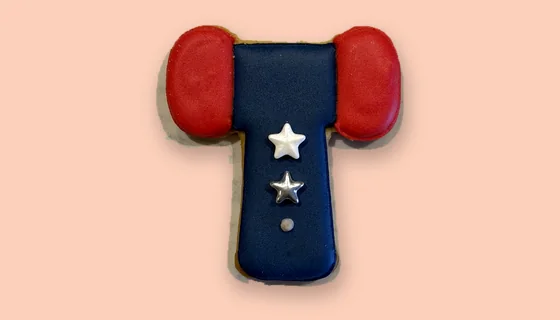
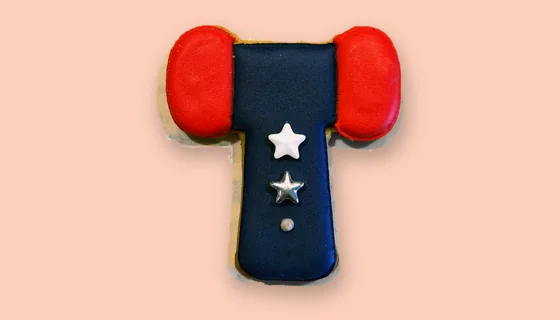
Loading spinner instead of a blank wait, 防詐騙提醒, regraded 抓週 photos
- a page that may come from the browser cache shows a small spinner (at most 1.2 s) until the version check passes,
  then opens; verified with an update simulation: the old copy is loaded but never shown
- 購物須知 gets a 防詐騙提醒 topic (owner can rewrite or hide it); the same line sits under the bank details on the order page
- the seven 抓週 cookies she had not retouched are colour-graded with the curve learnt from her own 17 retouched pairs
- tests: api 289, webhook 25, browser 79 checks

diff --git a/order.html b/order.html
@@ -2,8 +2,8 @@
 <html lang="zh-Hant-TW">
 <head>
 <meta charset="utf-8">
-<script>/* stale-page guard, part 1 (see js/app.js) */try{(function(d){var n=performance.getEntriesByType&&performance.getEntriesByType('navigation')[0];if(n&&n.transferSize>0)return;d.className+=' vchk';setTimeout(function(){d.classList.remove('vchk')},2500)})(document.documentElement)}catch(e){}</script>
-<style>.vchk body{visibility:hidden}</style>
+<script>/* stale-page guard, part 1 (see js/app.js) */try{(function(d){var n=performance.getEntriesByType&&performance.getEntriesByType('navigation')[0];if(n&&n.transferSize>0)return;d.className+=' vchk';setTimeout(function(){d.classList.remove('vchk')},1200)})(document.documentElement)}catch(e){}</script>
+<style>.vchk body{visibility:hidden}.vchk::before{content:"";position:fixed;left:50%;top:40%;width:36px;height:36px;margin:-18px 0 0 -18px;border-radius:50%;border:3px solid #ecd5c8;border-top-color:#b0604a;opacity:0;animation:vchk .8s linear infinite,vchkin .15s .12s forwards}@keyframes vchk{to{transform:rotate(360deg)}}@keyframes vchkin{to{opacity:1}}</style>
 <meta name="viewport" content="width=device-width, initial-scale=1, viewport-fit=cover">
 <title>訂單｜N.T Cookie × N.T Canelé</title>
 <meta name="theme-color" content="#f8ede7">
@@ -51,6 +51,7 @@
         <dl class="kv"><dt>銀行</dt><dd>${esc(b.name)}${b.code ? `（${esc(b.code)}）` : ''}</dd>
         <dt>帳號</dt><dd>${esc(b.account)} ${copyBtn(b.account)}</dd>${b.holder ? `<dt>戶名</dt><dd>${esc(b.holder)}</dd>` : ''}
         <dt>金額</dt><dd>${money(o.total)} ${copyBtn(o.total)}</dd></dl>
+        ${(() => { const f = NTC.shopNotes(cat.settings).find((r) => r.key === 'fraud'); return f && !f.hidden && f.text ? `<p class="note" id="fraud-note" style="margin:10px 0 0;padding:9px 11px;border-radius:10px;background:#fff6ec">⚠ <b>${esc(f.title)}</b>　${esc(f.text).replace(/\n/g, '<br>')}</p>` : ''; })()}
         ${p.last5 ? `<div style="margin:12px 0 0;padding:10px 12px;border-radius:12px;background:#eef4fb"><b>✓ 已回報匯款</b>（末五碼 ${esc(p.last5)}）<br><span class="note">店家確認收到後，這裡會變成「已付款」。想讓店家更快看到，可以按下面的按鈕用 LINE 通知。</span>
           <a class="btn line block small" style="margin-top:10px" href="${NTC.chatUrl(`您好，我已經匯款了\n訂單：${o.orderNo}\n金額：${money(o.total)}\n帳號末五碼：${p.last5}`)}">用 LINE 通知店家我已匯款</a></div>` : ''}
         <div class="row" style="margin-top:12px"><input id="last5" inputmode="numeric" maxlength="5" placeholder="帳號末五碼" style="flex:1;border:1.5px solid #e6d2c6;border-radius:12px;padding:12px;font-size:16px" value="${esc(p.last5 || '')}">

diff --git a/admin.html b/admin.html
@@ -2,8 +2,8 @@
 <html lang="zh-Hant-TW">
 <head>
 <meta charset="utf-8">
-<script>/* stale-page guard, part 1 (see js/app.js) */try{(function(d){var n=performance.getEntriesByType&&performance.getEntriesByType('navigation')[0];if(n&&n.transferSize>0)return;d.className+=' vchk';setTimeout(function(){d.classList.remove('vchk')},2500)})(document.documentElement)}catch(e){}</script>
-<style>.vchk body{visibility:hidden}</style>
+<script>/* stale-page guard, part 1 (see js/app.js) */try{(function(d){var n=performance.getEntriesByType&&performance.getEntriesByType('navigation')[0];if(n&&n.transferSize>0)return;d.className+=' vchk';setTimeout(function(){d.classList.remove('vchk')},1200)})(document.documentElement)}catch(e){}</script>
+<style>.vchk body{visibility:hidden}.vchk::before{content:"";position:fixed;left:50%;top:40%;width:36px;height:36px;margin:-18px 0 0 -18px;border-radius:50%;border:3px solid #ecd5c8;border-top-color:#b0604a;opacity:0;animation:vchk .8s linear infinite,vchkin .15s .12s forwards}@keyframes vchk{to{transform:rotate(360deg)}}@keyframes vchkin{to{opacity:1}}</style>
 <meta name="viewport" content="width=device-width, initial-scale=1, viewport-fit=cover">
 <title>店家後台｜N.T Cookie × N.T Canelé</title>
 <meta name="robots" content="noindex, nofollow">
@@ -108,7 +108,7 @@
   let canDeleteReal = false; // only the fixed top admin may delete customer orders
   let tab = 'orders'; let statuses = {}; let orders = []; let filter = 'open'; let sortBy = 'created';
   let products = []; let settings = null; let ready = {}; let inqs = null; let inqStatuses = {}; let inqFilter = 'open'; let inqP = null; let dirty = false; let prodCat = 'canele'; const openAcc = new Set();
-  const NOTE_TOPICS = [['date', '到貨日'], ['cookie', '造型餅乾'], ['canele', '可麗露'], ['meringue', '馬林糖一口酥'], ['pay', '付款'], ['custom', '客製造型']]; // 購物須知：自動寫好的六則（同 js/app.js NTC.shopNotes）
+  const NOTE_TOPICS = [['date', '到貨日'], ['cookie', '造型餅乾'], ['canele', '可麗露'], ['meringue', '馬林糖一口酥'], ['pay', '付款'], ['custom', '客製造型'], ['fraud', '防詐騙提醒']]; // 購物須知：自動寫好的六則（同 js/app.js NTC.shopNotes）
 
   // ---------- who are you?  The LINE account decides: admins go straight in, everyone else is stopped here.
   NTC.preferAdmin = true;

diff --git a/meringue.html b/meringue.html
@@ -2,8 +2,8 @@
 <html lang="zh-Hant-TW">
 <head>
 <meta charset="utf-8">
-<script>/* stale-page guard, part 1 (see js/app.js) */try{(function(d){var n=performance.getEntriesByType&&performance.getEntriesByType('navigation')[0];if(n&&n.transferSize>0)return;d.className+=' vchk';setTimeout(function(){d.classList.remove('vchk')},2500)})(document.documentElement)}catch(e){}</script>
-<style>.vchk body{visibility:hidden}</style>
+<script>/* stale-page guard, part 1 (see js/app.js) */try{(function(d){var n=performance.getEntriesByType&&performance.getEntriesByType('navigation')[0];if(n&&n.transferSize>0)return;d.className+=' vchk';setTimeout(function(){d.classList.remove('vchk')},1200)})(document.documentElement)}catch(e){}</script>
+<style>.vchk body{visibility:hidden}.vchk::before{content:"";position:fixed;left:50%;top:40%;width:36px;height:36px;margin:-18px 0 0 -18px;border-radius:50%;border:3px solid #ecd5c8;border-top-color:#b0604a;opacity:0;animation:vchk .8s linear infinite,vchkin .15s .12s forwards}@keyframes vchk{to{transform:rotate(360deg)}}@keyframes vchkin{to{opacity:1}}</style>
 <meta name="viewport" content="width=device-width, initial-scale=1, viewport-fit=cover">
 <title>馬林糖一口酥｜N.T Cookie × N.T Canelé</title>
 <meta name="description" content="馬林糖一口酥｜雙重酥脆・香濃不膩。每款馬林糖搭配專屬的香酥餅乾底。原味奶油、小山園抹茶、頂級可可、天然紫薯、香濃起司。">

diff --git a/index.html b/index.html
@@ -2,8 +2,8 @@
 <html lang="zh-Hant-TW">
 <head>
 <meta charset="utf-8">
-<script>/* stale-page guard, part 1 (see js/app.js) */try{(function(d){var n=performance.getEntriesByType&&performance.getEntriesByType('navigation')[0];if(n&&n.transferSize>0)return;d.className+=' vchk';setTimeout(function(){d.classList.remove('vchk')},2500)})(document.documentElement)}catch(e){}</script>
-<style>.vchk body{visibility:hidden}</style>
+<script>/* stale-page guard, part 1 (see js/app.js) */try{(function(d){var n=performance.getEntriesByType&&performance.getEntriesByType('navigation')[0];if(n&&n.transferSize>0)return;d.className+=' vchk';setTimeout(function(){d.classList.remove('vchk')},1200)})(document.documentElement)}catch(e){}</script>
+<style>.vchk body{visibility:hidden}.vchk::before{content:"";position:fixed;left:50%;top:40%;width:36px;height:36px;margin:-18px 0 0 -18px;border-radius:50%;border:3px solid #ecd5c8;border-top-color:#b0604a;opacity:0;animation:vchk .8s linear infinite,vchkin .15s .12s forwards}@keyframes vchk{to{transform:rotate(360deg)}}@keyframes vchkin{to{opacity:1}}</style>
 <meta name="viewport" content="width=device-width, initial-scale=1, viewport-fit=cover">
 <title>N.T Cookie × N.T Canelé｜客製糖霜餅乾・豪宅裡の可麗露</title>
 <meta name="description" content="N.T Cookie × N.T Canelé — 客製糖霜餅乾 × 豪宅裡の可麗露。造型訂製・節慶禮盒・活動甜點，線上預約訂購。">

diff --git a/custom.html b/custom.html
@@ -2,8 +2,8 @@
 <html lang="zh-Hant-TW">
 <head>
 <meta charset="utf-8">
-<script>/* stale-page guard, part 1 (see js/app.js) */try{(function(d){var n=performance.getEntriesByType&&performance.getEntriesByType('navigation')[0];if(n&&n.transferSize>0)return;d.className+=' vchk';setTimeout(function(){d.classList.remove('vchk')},2500)})(document.documentElement)}catch(e){}</script>
-<style>.vchk body{visibility:hidden}</style>
+<script>/* stale-page guard, part 1 (see js/app.js) */try{(function(d){var n=performance.getEntriesByType&&performance.getEntriesByType('navigation')[0];if(n&&n.transferSize>0)return;d.className+=' vchk';setTimeout(function(){d.classList.remove('vchk')},1200)})(document.documentElement)}catch(e){}</script>
+<style>.vchk body{visibility:hidden}.vchk::before{content:"";position:fixed;left:50%;top:40%;width:36px;height:36px;margin:-18px 0 0 -18px;border-radius:50%;border:3px solid #ecd5c8;border-top-color:#b0604a;opacity:0;animation:vchk .8s linear infinite,vchkin .15s .12s forwards}@keyframes vchk{to{transform:rotate(360deg)}}@keyframes vchkin{to{opacity:1}}</style>
 <meta name="viewport" content="width=device-width, initial-scale=1, viewport-fit=cover">
 <title>客製造型餅乾｜N.T Cookie × N.T Canelé</title>
 <meta name="description" content="收涎・慶生・抓週・婚禮小物造型餅乾客製：留言、上傳參考照片，我們在 LINE 跟您討論細節與報價。">

diff --git a/canele.html b/canele.html
@@ -2,8 +2,8 @@
 <html lang="zh-Hant-TW">
 <head>
 <meta charset="utf-8">
-<script>/* stale-page guard, part 1 (see js/app.js) */try{(function(d){var n=performance.getEntriesByType&&performance.getEntriesByType('navigation')[0];if(n&&n.transferSize>0)return;d.className+=' vchk';setTimeout(function(){d.classList.remove('vchk')},2500)})(document.documentElement)}catch(e){}</script>
-<style>.vchk body{visibility:hidden}</style>
+<script>/* stale-page guard, part 1 (see js/app.js) */try{(function(d){var n=performance.getEntriesByType&&performance.getEntriesByType('navigation')[0];if(n&&n.transferSize>0)return;d.className+=' vchk';setTimeout(function(){d.classList.remove('vchk')},1200)})(document.documentElement)}catch(e){}</script>
+<style>.vchk body{visibility:hidden}.vchk::before{content:"";position:fixed;left:50%;top:40%;width:36px;height:36px;margin:-18px 0 0 -18px;border-radius:50%;border:3px solid #ecd5c8;border-top-color:#b0604a;opacity:0;animation:vchk .8s linear infinite,vchkin .15s .12s forwards}@keyframes vchk{to{transform:rotate(360deg)}}@keyframes vchkin{to{opacity:1}}</style>
 <meta name="viewport" content="width=device-width, initial-scale=1, viewport-fit=cover">
 <title>N.T Canelé 可麗露專區｜豪宅裡の可麗露</title>
 <meta name="description" content="N.T Canelé 豪宅裡の可麗露・六入可麗露禮盒。單一口味禮盒 $750 起、綜合口味禮盒 $800。">

diff --git a/cookies.html b/cookies.html
@@ -2,8 +2,8 @@
 <html lang="zh-Hant-TW">
 <head>
 <meta charset="utf-8">
-<script>/* stale-page guard, part 1 (see js/app.js) */try{(function(d){var n=performance.getEntriesByType&&performance.getEntriesByType('navigation')[0];if(n&&n.transferSize>0)return;d.className+=' vchk';setTimeout(function(){d.classList.remove('vchk')},2500)})(document.documentElement)}catch(e){}</script>
-<style>.vchk body{visibility:hidden}</style>
+<script>/* stale-page guard, part 1 (see js/app.js) */try{(function(d){var n=performance.getEntriesByType&&performance.getEntriesByType('navigation')[0];if(n&&n.transferSize>0)return;d.className+=' vchk';setTimeout(function(){d.classList.remove('vchk')},1200)})(document.documentElement)}catch(e){}</script>
+<style>.vchk body{visibility:hidden}.vchk::before{content:"";position:fixed;left:50%;top:40%;width:36px;height:36px;margin:-18px 0 0 -18px;border-radius:50%;border:3px solid #ecd5c8;border-top-color:#b0604a;opacity:0;animation:vchk .8s linear infinite,vchkin .15s .12s forwards}@keyframes vchk{to{transform:rotate(360deg)}}@keyframes vchkin{to{opacity:1}}</style>
 <meta name="viewport" content="width=device-width, initial-scale=1, viewport-fit=cover">
 <title>造型餅乾｜N.T Cookie × N.T Canelé</title>
 <meta name="description" content="N.T Cookie 手作糖霜造型餅乾：可單片選購、自由搭配。生日・收涎・派對・送禮。">

diff --git a/cart.html b/cart.html
@@ -2,8 +2,8 @@
 <html lang="zh-Hant-TW">
 <head>
 <meta charset="utf-8">
-<script>/* stale-page guard, part 1 (see js/app.js) */try{(function(d){var n=performance.getEntriesByType&&performance.getEntriesByType('navigation')[0];if(n&&n.transferSize>0)return;d.className+=' vchk';setTimeout(function(){d.classList.remove('vchk')},2500)})(document.documentElement)}catch(e){}</script>
-<style>.vchk body{visibility:hidden}</style>
+<script>/* stale-page guard, part 1 (see js/app.js) */try{(function(d){var n=performance.getEntriesByType&&performance.getEntriesByType('navigation')[0];if(n&&n.transferSize>0)return;d.className+=' vchk';setTimeout(function(){d.classList.remove('vchk')},1200)})(document.documentElement)}catch(e){}</script>
+<style>.vchk body{visibility:hidden}.vchk::before{content:"";position:fixed;left:50%;top:40%;width:36px;height:36px;margin:-18px 0 0 -18px;border-radius:50%;border:3px solid #ecd5c8;border-top-color:#b0604a;opacity:0;animation:vchk .8s linear infinite,vchkin .15s .12s forwards}@keyframes vchk{to{transform:rotate(360deg)}}@keyframes vchkin{to{opacity:1}}</style>
 <meta name="viewport" content="width=device-width, initial-scale=1, viewport-fit=cover">
 <title>購物車・結帳｜N.T Cookie × N.T Canelé</title>
 <meta name="theme-color" content="#faf4ed">

diff --git a/orders.html b/orders.html
@@ -2,8 +2,8 @@
 <html lang="zh-Hant-TW">
 <head>
 <meta charset="utf-8">
-<script>/* stale-page guard, part 1 (see js/app.js) */try{(function(d){var n=performance.getEntriesByType&&performance.getEntriesByType('navigation')[0];if(n&&n.transferSize>0)return;d.className+=' vchk';setTimeout(function(){d.classList.remove('vchk')},2500)})(document.documentElement)}catch(e){}</script>
-<style>.vchk body{visibility:hidden}</style>
+<script>/* stale-page guard, part 1 (see js/app.js) */try{(function(d){var n=performance.getEntriesByType&&performance.getEntriesByType('navigation')[0];if(n&&n.transferSize>0)return;d.className+=' vchk';setTimeout(function(){d.classList.remove('vchk')},1200)})(document.documentElement)}catch(e){}</script>
+<style>.vchk body{visibility:hidden}.vchk::before{content:"";position:fixed;left:50%;top:40%;width:36px;height:36px;margin:-18px 0 0 -18px;border-radius:50%;border:3px solid #ecd5c8;border-top-color:#b0604a;opacity:0;animation:vchk .8s linear infinite,vchkin .15s .12s forwards}@keyframes vchk{to{transform:rotate(360deg)}}@keyframes vchkin{to{opacity:1}}</style>
 <meta name="viewport" content="width=device-width, initial-scale=1, viewport-fit=cover">
 <meta name="theme-color" content="#f8ede7">
 <link rel="icon" href="assets/favicon.png">

diff --git a/reserve.html b/reserve.html
@@ -2,8 +2,8 @@
 <html lang="zh-Hant-TW">
 <head>
 <meta charset="utf-8">
-<script>/* stale-page guard, part 1 (see js/app.js) */try{(function(d){var n=performance.getEntriesByType&&performance.getEntriesByType('navigation')[0];if(n&&n.transferSize>0)return;d.className+=' vchk';setTimeout(function(){d.classList.remove('vchk')},2500)})(document.documentElement)}catch(e){}</script>
-<style>.vchk body{visibility:hidden}</style>
+<script>/* stale-page guard, part 1 (see js/app.js) */try{(function(d){var n=performance.getEntriesByType&&performance.getEntriesByType('navigation')[0];if(n&&n.transferSize>0)return;d.className+=' vchk';setTimeout(function(){d.classList.remove('vchk')},1200)})(document.documentElement)}catch(e){}</script>
+<style>.vchk body{visibility:hidden}.vchk::before{content:"";position:fixed;left:50%;top:40%;width:36px;height:36px;margin:-18px 0 0 -18px;border-radius:50%;border:3px solid #ecd5c8;border-top-color:#b0604a;opacity:0;animation:vchk .8s linear infinite,vchkin .15s .12s forwards}@keyframes vchk{to{transform:rotate(360deg)}}@keyframes vchkin{to{opacity:1}}</style>
 <meta name="viewport" content="width=device-width, initial-scale=1, viewport-fit=cover">
 <meta name="theme-color" content="#faf4ed">
 <link rel="icon" href="assets/favicon.png">

diff --git a/shop.html b/shop.html
@@ -2,8 +2,8 @@
 <html lang="zh-Hant-TW">
 <head>
 <meta charset="utf-8">
-<script>/* stale-page guard, part 1 (see js/app.js) */try{(function(d){var n=performance.getEntriesByType&&performance.getEntriesByType('navigation')[0];if(n&&n.transferSize>0)return;d.className+=' vchk';setTimeout(function(){d.classList.remove('vchk')},2500)})(document.documentElement)}catch(e){}</script>
-<style>.vchk body{visibility:hidden}</style>
+<script>/* stale-page guard, part 1 (see js/app.js) */try{(function(d){var n=performance.getEntriesByType&&performance.getEntriesByType('navigation')[0];if(n&&n.transferSize>0)return;d.className+=' vchk';setTimeout(function(){d.classList.remove('vchk')},1200)})(document.documentElement)}catch(e){}</script>
+<style>.vchk body{visibility:hidden}.vchk::before{content:"";position:fixed;left:50%;top:40%;width:36px;height:36px;margin:-18px 0 0 -18px;border-radius:50%;border:3px solid #ecd5c8;border-top-color:#b0604a;opacity:0;animation:vchk .8s linear infinite,vchkin .15s .12s forwards}@keyframes vchk{to{transform:rotate(360deg)}}@keyframes vchkin{to{opacity:1}}</style>
 <meta name="viewport" content="width=device-width, initial-scale=1, viewport-fit=cover">
 <meta name="theme-color" content="#faf4ed">
 <link rel="icon" href="assets/favicon.png">

diff --git a/js/app.js b/js/app.js
@@ -315,6 +315,8 @@
       ['meringue', '馬林糖一口酥', `${S.shipping.ambient.label}：${tiers(amb, '罐')}。和造型餅乾一起訂會裝同一箱，運費 ${m(Math.max(...S.cookie.shipping.tiers.map((t) => t.fee)))}。`],
       ['pay', '付款', pay.length ? `${pay.join('、')}。確認收到款項後開始製作。` : '下單後會用 LINE 跟您確認付款方式。'],
       ['custom', '客製造型', '系列裡沒有的圖案，請到「聊聊客製需求」留言並附參考照片，我們報價後再製作。'],
+      // 防詐騙警語（店主 11-19）：also shown under the bank details on the order page
+      ['fraud', '防詐騙提醒', `我們不會打電話或傳訊息要求您操作 ATM、網路銀行、「解除分期付款」，也不會索取信用卡號或簡訊驗證碼。訂單與付款資訊請以本站「我的訂單」和 LINE 官方帳號 ${CFG.lineId || '@ntcookie'} 為準；接到可疑來電請撥 165 反詐騙專線查證。`],
     ];
     const n = S.shopNotes || {}; const over = n.over || {}; const off = n.off || [];
     return [...auto.map(([key, title, text]) => ({ key, title, auto: text, text: over[key] || text, custom: !!over[key], hidden: off.includes(key) })),
